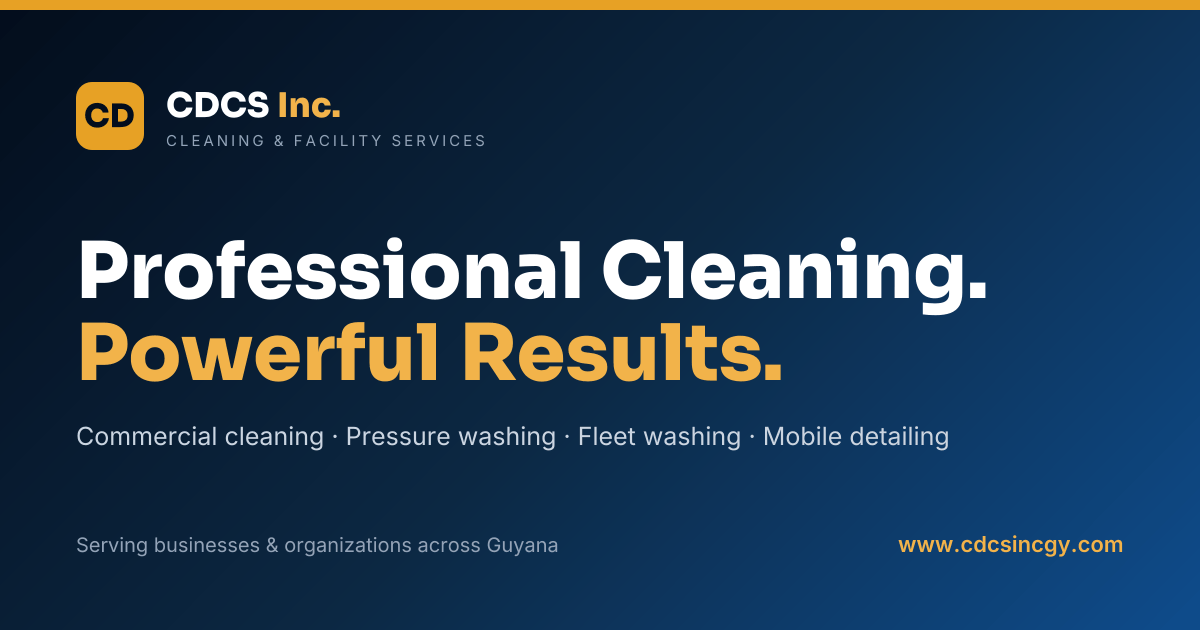
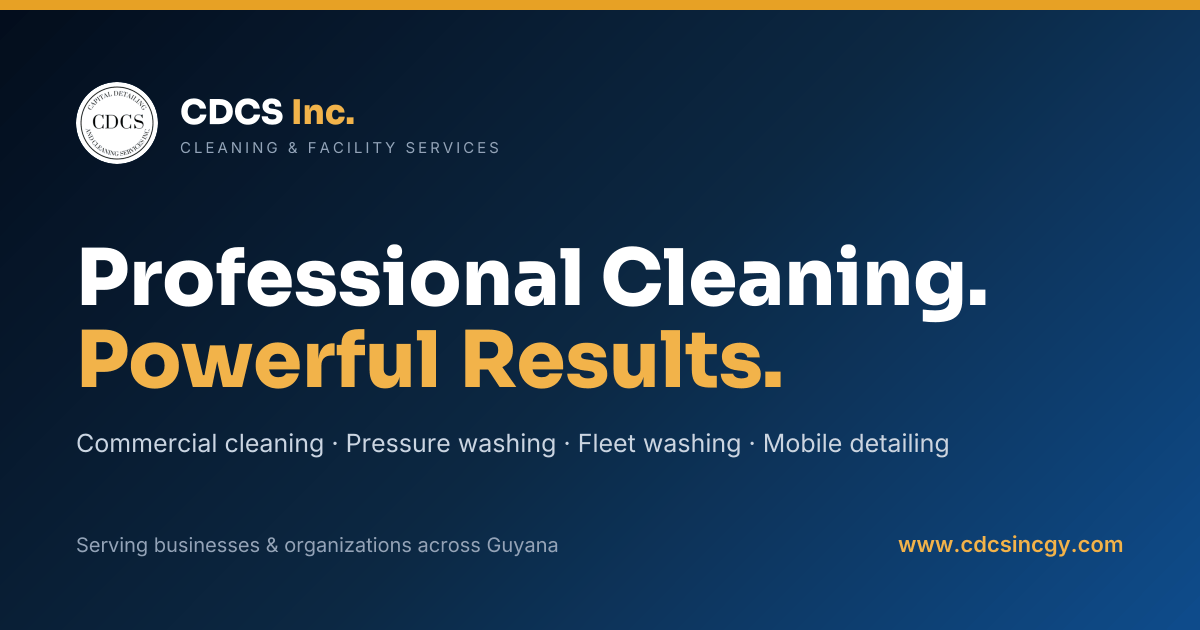
Add official CDCS branding to website
Claude-Session: https://claude.ai/code/session_01VFCvy7SVbeBZMidf6JwEij

diff --git a/src/components/Logo.tsx b/src/components/Logo.tsx
@@ -3,20 +3,37 @@ import Link from "next/link";
 export function Logo({ variant = "dark" }: { variant?: "dark" | "light" }) {
   const isLight = variant === "light";
   return (
-    <Link href="/" aria-label="CDCS Inc. — home" className="flex items-center gap-2.5 shrink-0">
+    <Link href="/" className="flex items-center gap-2.5 shrink-0">
+      {/* Official CDCS seal. It is black line art, so on dark surfaces it sits
+          on a white chip. The image is only scaled — never recoloured. */}
       <span
-        aria-hidden="true"
-        className={`flex h-10 w-10 items-center justify-center rounded-md text-base font-black tracking-tight ${
-          isLight ? "bg-accent-500 text-navy-950" : "bg-navy-900 text-white"
+        className={`flex h-10 w-10 shrink-0 items-center justify-center overflow-hidden rounded-full ${
+          isLight ? "bg-white p-[2px]" : ""
         }`}
       >
-        CD
+        <picture>
+          <source srcSet="/images/cdcs-logo-mark.webp" type="image/webp" />
+          <img
+            src="/images/cdcs-logo-mark.png"
+            alt="CDCS Inc. logo"
+            width={256}
+            height={256}
+            decoding="async"
+            className="h-full w-full object-contain"
+          />
+        </picture>
       </span>
-      <span className="flex flex-col leading-none">
+      <span className="flex min-w-0 flex-col leading-none">
         <span className={`text-lg font-extrabold tracking-tight ${isLight ? "text-white" : "text-navy-900"}`}>
           CDCS <span className="text-accent-500">Inc.</span>
         </span>
-        <span className={`text-[10px] font-semibold uppercase tracking-[0.18em] ${isLight ? "text-slate-300" : "text-slate-500"}`}>
+        {/* Tagline is hidden on the smallest screens so the header logo never
+            crowds the phone / WhatsApp / menu controls. */}
+        <span
+          className={`hidden text-[10px] font-semibold uppercase tracking-[0.18em] sm:block ${
+            isLight ? "text-slate-300" : "text-slate-500"
+          }`}
+        >
           Cleaning &amp; Facility Services
         </span>
       </span>

diff --git a/src/app/layout.tsx b/src/app/layout.tsx
@@ -45,9 +45,8 @@ export const metadata: Metadata = {
     card: "summary_large_image",
     images: [ogImage],
   },
-  icons: {
-    icon: "/favicon.ico",
-  },
+  // favicon.ico / icon.png / apple-icon.png are provided by the App Router
+  // file conventions in src/app/ — regenerate with `npm run logo:assets`.
 };
 
 const jsonLd = {
@@ -59,6 +58,7 @@ const jsonLd = {
   description: siteConfig.description,
   slogan: siteConfig.tagline,
   url: siteConfig.url,
+  logo: `${siteConfig.url}/images/cdcs-logo.png`,
   image: [
     `${siteConfig.url}${ogImage.url}`,
     `${siteConfig.url}/images/projects/commercial-cleaning/commercial-cleaning-facility-interior.jpg`,

diff --git a/README.md b/README.md
@@ -70,6 +70,22 @@ The three service pages without their own photos yet (deep cleaning, post-constr
 commercial facility cleaning) reuse a related commercial-cleaning shot and show a "View Our Work"
 card instead of a gallery until dedicated photos exist.
 
+### Logo
+
+The official CDCS seal is `public/images/cdcs-logo.png` (kept as supplied). `npm run logo:assets`
+(`scripts/generate-logo-assets.mjs`) derives everything else from it — never editing the
+original:
+
+- `public/images/cdcs-logo-mark.{webp,png}` — 256px transparent mark used in the header and
+  footer `<Logo>` (via `<picture>`). On dark surfaces the footer places it on a small white chip
+  because the seal is black line art.
+- `src/app/favicon.ico` + `icon.png` + `apple-icon.png` — browser icons, seal on white. The
+  seal's thin outlines and micro-text are soft below ~32px; it reads well from 32px up and at
+  Google's ~48px search size.
+- The social card (`public/og-image.png`, `npm run og:image`) shows the seal on a white disc.
+- `ProfessionalService` JSON-LD `logo` points at the full-resolution
+  `https://www.cdcsincgy.com/images/cdcs-logo.png`.
+
 ---
 
 ## 4. Connecting the quote form to email
